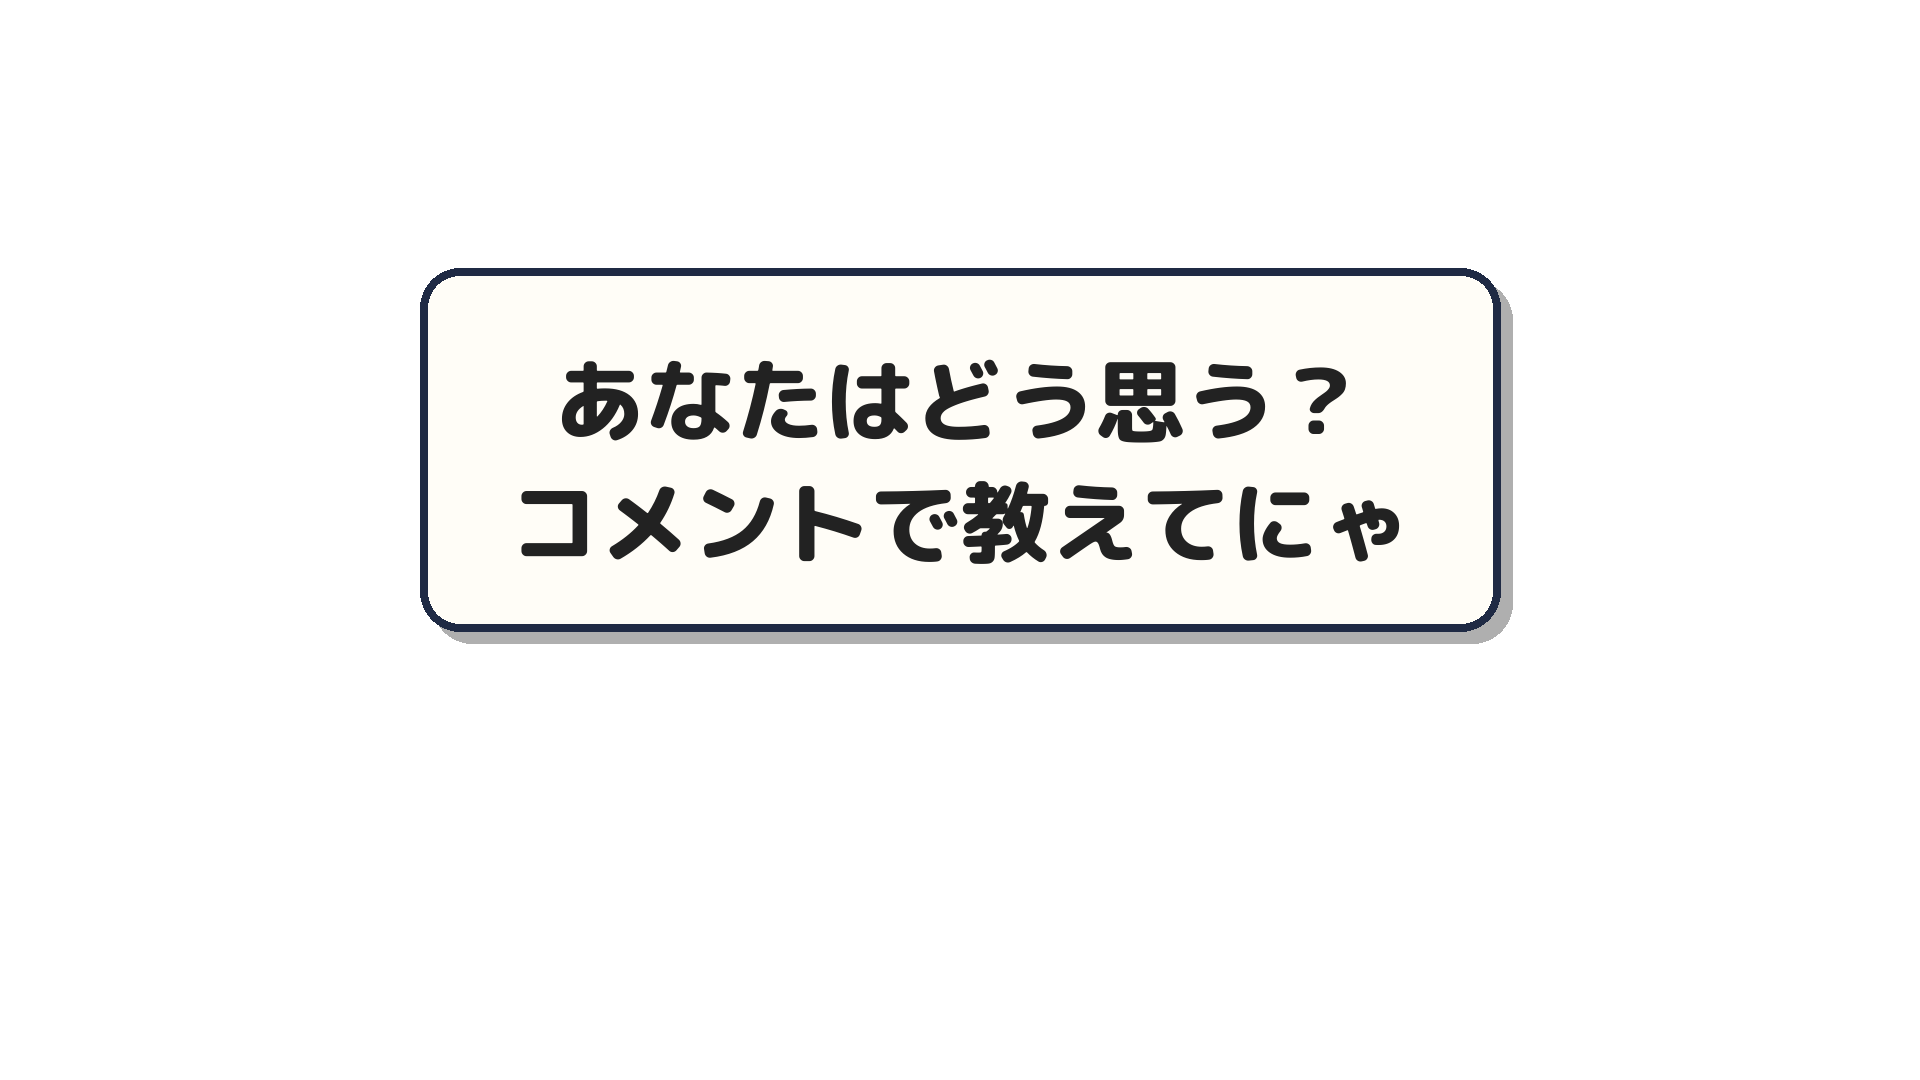
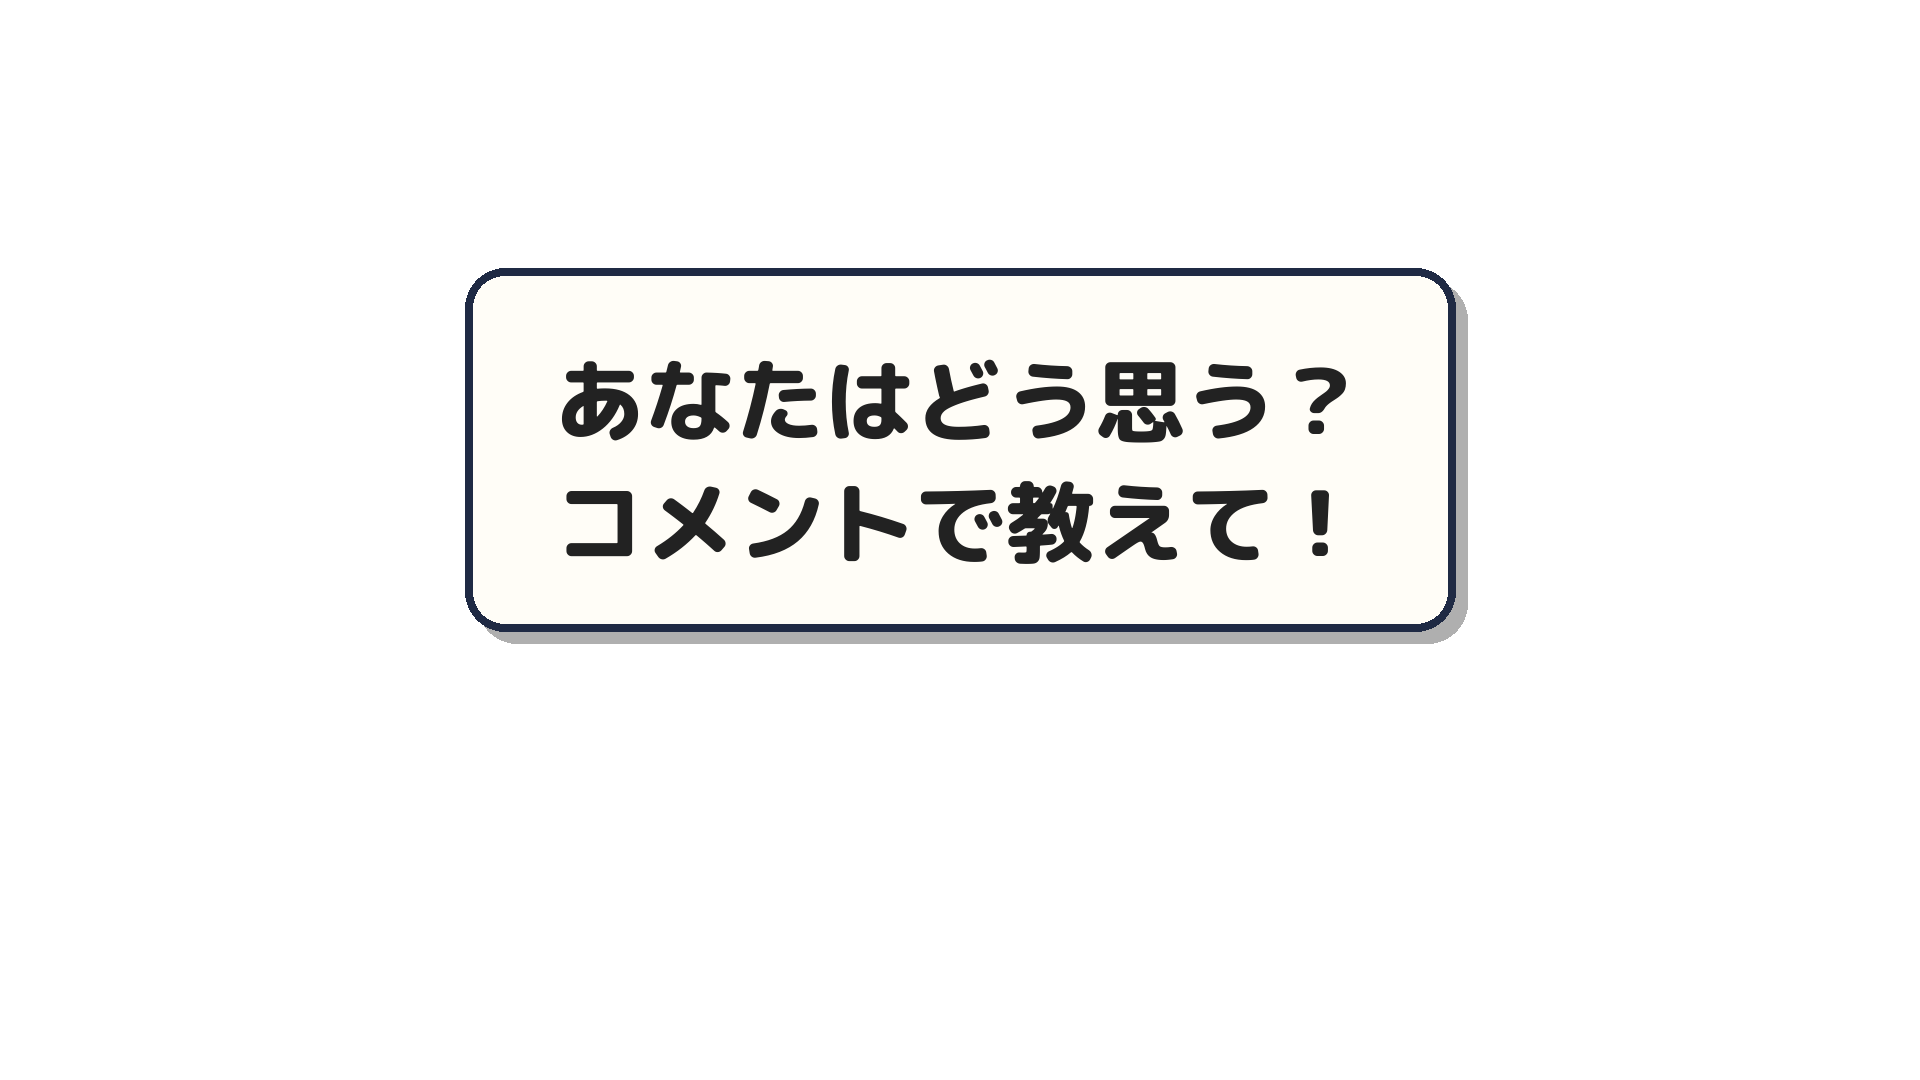
catmeme: 締めの字幕から語尾の「にゃ」をなくす
Claude-Session: https://claude.ai/code/session_011g9CsrfFD5YswfNSvNDW39

Changed region(s): [[0.2188, 0.2444, 0.8125, 0.6111]]

diff --git a/catmeme/make_parts_01_todai.py b/catmeme/make_parts_01_todai.py
@@ -86,7 +86,7 @@ ITEMS = {
     ]),
     # 11 まとめ・締め
     "e11_matome": P.message(["投票はあくまで参考", "でも1位を選ばないなら　理由の説明がカギ"], size=72),
-    "e12_ending": P.message(["あなたはどう思う？", "コメントで教えてにゃ"], size=90),
+    "e12_ending": P.message(["あなたはどう思う？", "コメントで教えて！"], size=90),
 }
 
 # 名前テロップ（候補者紹介・投票結果の場面で猫の足元に出す）

diff --git a/catmeme/scripts/01_todai_president.md b/catmeme/scripts/01_todai_president.md
@@ -23,6 +23,7 @@
 - 実在の人（藤垣さん・議長）のセリフは、報道された内容から意味を変えずに口語にしたもの。報道にない発言は作らない
 - 架空の猫（ニュース猫・先生たち・会議の猫たち・ネットの猫たち）は思いきりくだけた口調でOK。ただし実在の人をバカにする言い方はしない
 - 冒頭か概要欄に、AIで生成した部分（画像など）があればその旨を表示
+- 字幕・セリフの語尾に「にゃ」は使わない
 
 ---
 
@@ -222,7 +223,7 @@
 
 ニュース猫「ルール違反じゃないけど、モヤるのはしゃーないってことね」［正座してうなずく猫］
 
-【字幕】あなたはどう思う？ コメントで教えてにゃ
+【字幕】あなたはどう思う？ コメントで教えて！
 
 ［手を振る猫］
 
